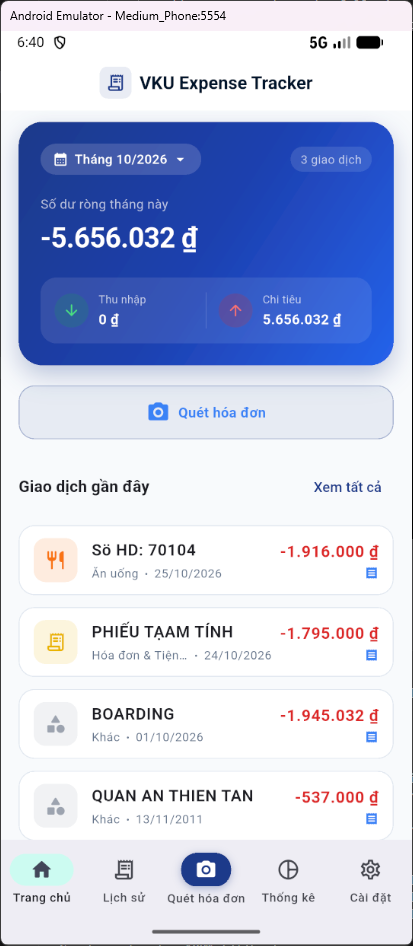
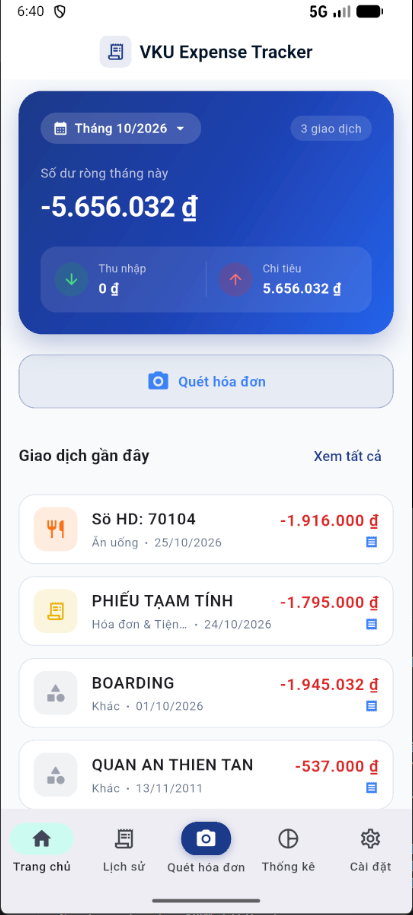
fix(docs): crop emulator title bar and fix screenshot URLs with absolute raw GitHub links

diff --git a/README.md b/README.md
@@ -37,19 +37,10 @@
 
 ## 📸 Giao diện ứng dụng thực tế (Screenshots)
 
-<p align="center">
-  <img src="docs/screenshots/01_dashboard_screen.png" width="23%" alt="Trang chủ Dashboard" />
-  <img src="docs/screenshots/02_history_screen.png" width="23%" alt="Lịch sử giao dịch" />
-  <img src="docs/screenshots/03_statistics_screen.png" width="23%" alt="Biểu đồ thống kê Donut" />
-  <img src="docs/screenshots/04_settings_screen.png" width="23%" alt="Cài đặt và bảo mật" />
-</p>
-
-| Màn hình | Tính năng nổi bật & Trải nghiệm người dùng |
-|:---|---|
-| **🏠 Trang chủ (Dashboard)** | Thẻ số dư tháng tổng hợp tự động thu/chi, phím Quét hóa đơn tích hợp chính giữa NavigationBar, danh sách giao dịch gần nhất tối ưu không tràn viền. |
-| **📑 Lịch sử giao dịch (History)** | Thanh tìm kiếm tức thì theo đơn vị/nội dung, bộ lọc đa tầng (Tất cả, Chi tiêu, Thu nhập, Danh mục) với chip xóa nhanh trực quan. |
-| **📊 Thống kê chi tiêu (Statistics)** | Biểu đồ hình vành khuyên (Donut Chart) tự vẽ 100% bằng Flutter `CustomPainter` & `AnimationController`, phân bổ tỷ lệ % và số tiền chi tiết từng danh mục. |
-| **⚙ Cài đặt & Bản quyền (Settings)** | Chuyển đổi giao diện Sáng / Tối / Hệ thống bằng `SegmentedButton`, cam kết bảo mật 100% On-Device ngoại tuyến và thông tin đồ án VKU. |
+| 🏠 Trang chủ (Dashboard) | 📑 Lịch sử giao dịch | 📊 Thống kê chi tiêu | ⚙ Cài đặt & Bản quyền |
+| :---: | :---: | :---: | :---: |
+| <img src="https://raw.githubusercontent.com/CAMLC25/camle-vku-receipt_ocr_expense_tracker/main/docs/screenshots/01_dashboard_screen.png" width="220" alt="Trang chủ Dashboard" /> | <img src="https://raw.githubusercontent.com/CAMLC25/camle-vku-receipt_ocr_expense_tracker/main/docs/screenshots/02_history_screen.png" width="220" alt="Lịch sử giao dịch" /> | <img src="https://raw.githubusercontent.com/CAMLC25/camle-vku-receipt_ocr_expense_tracker/main/docs/screenshots/03_statistics_screen.png" width="220" alt="Biểu đồ thống kê" /> | <img src="https://raw.githubusercontent.com/CAMLC25/camle-vku-receipt_ocr_expense_tracker/main/docs/screenshots/04_settings_screen.png" width="220" alt="Cài đặt và bảo mật" /> |
+| Thẻ số dư tháng tổng hợp tự động thu/chi, phím Quét hóa đơn tích hợp chính giữa NavigationBar, danh sách giao dịch không tràn viền. | Thanh tìm kiếm tức thì theo đơn vị/nội dung, bộ lọc đa tầng (Tất cả, Chi tiêu, Thu nhập, Danh mục) với chip xóa nhanh. | Biểu đồ hình vành khuyên (Donut Chart) tự vẽ 100% bằng Canvas API, phân bổ tỷ lệ % và số tiền chi tiết từng danh mục. | Chuyển đổi Theme Sáng / Tối / Hệ thống bằng `SegmentedButton`, cam kết bảo mật 100% On-Device và thông tin đồ án VKU. |
 
 ---
 
